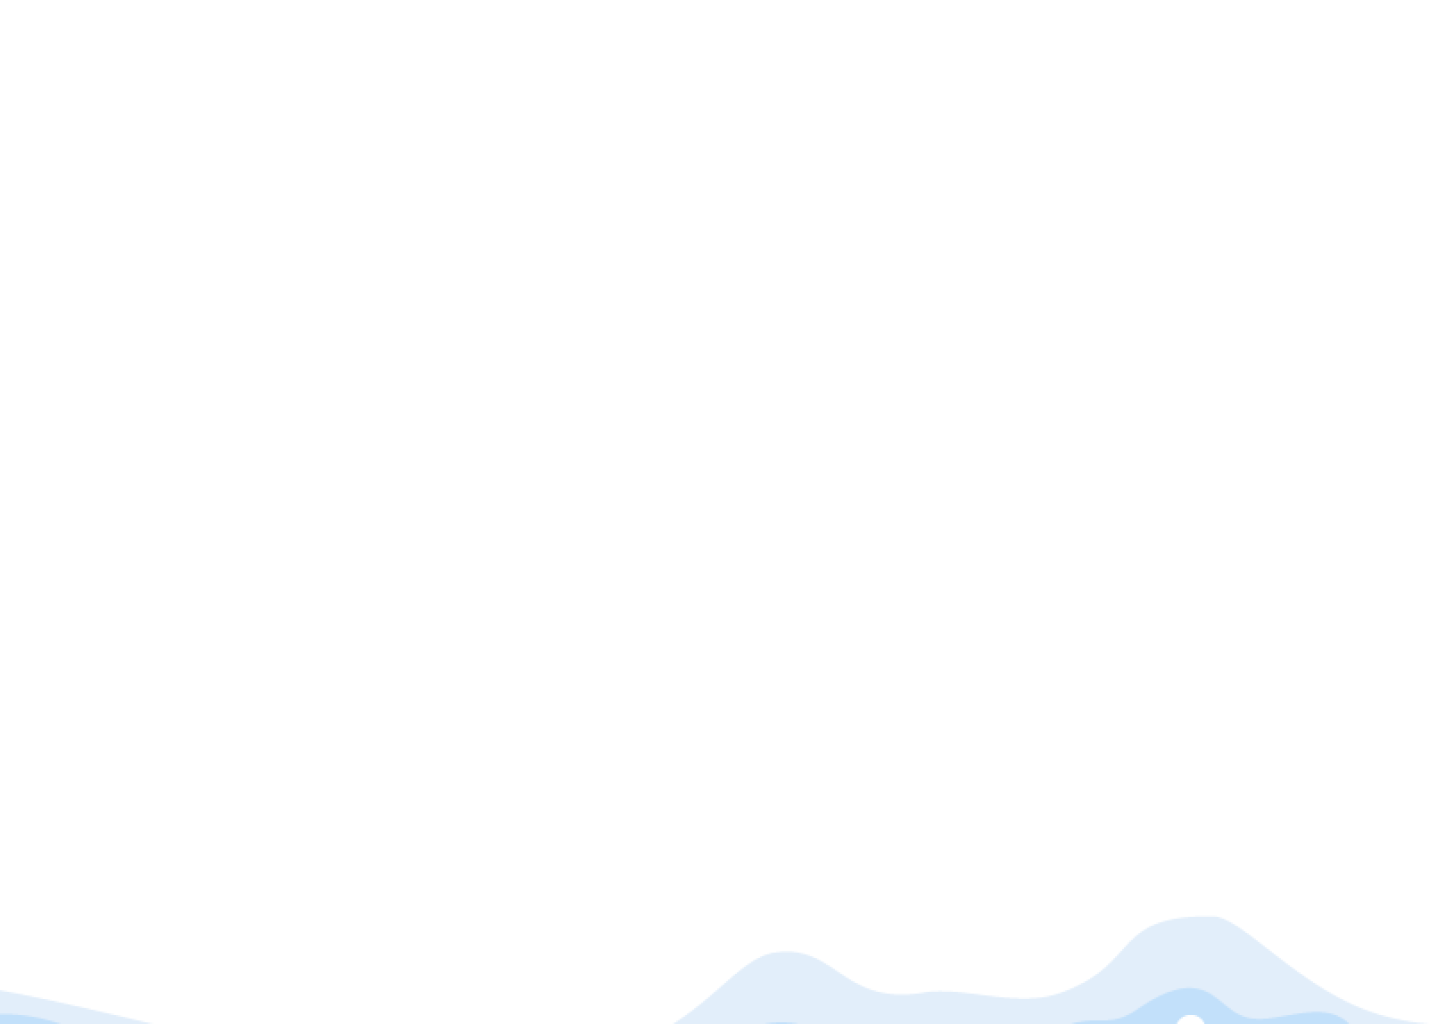
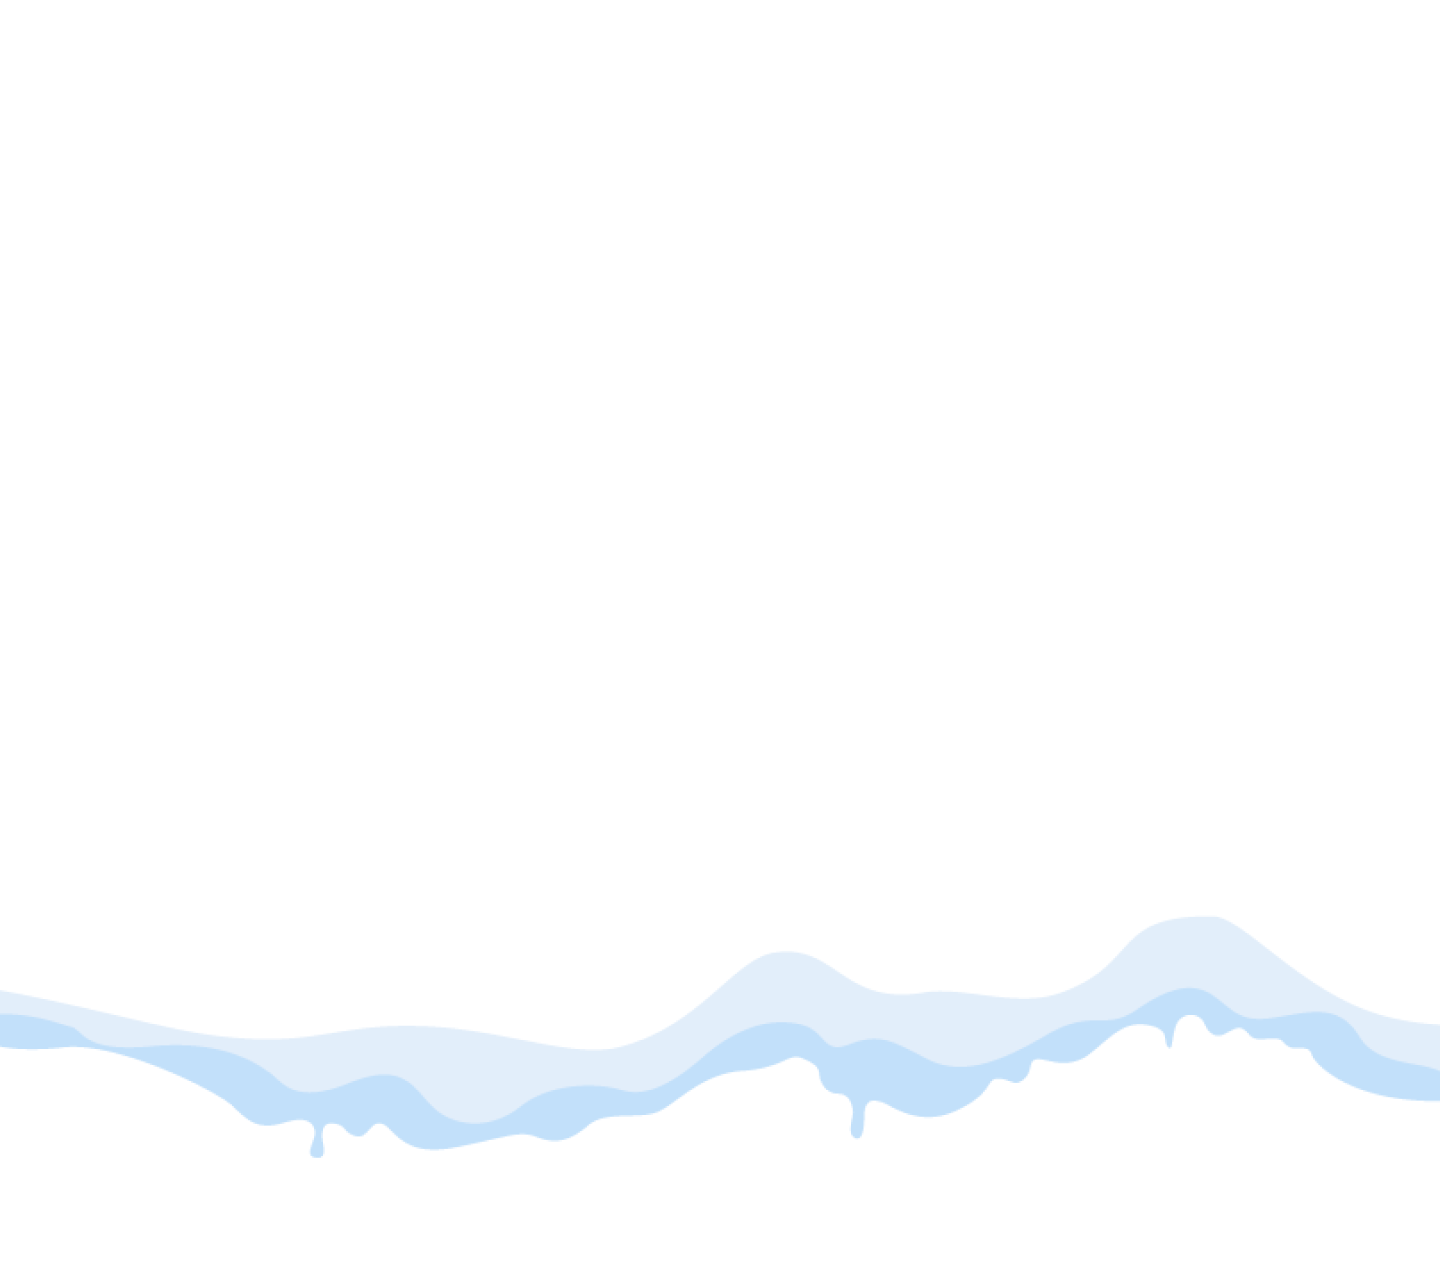
collapse

Changed region(s): [[0.0, 0.7188, 1.0, 0.9062], [0.4688, 0.875, 0.9688, 1.0], [0.0, 0.9688, 0.0938, 1.0]]

diff --git a/chinchilla/src/Page/WhatWho.js b/chinchilla/src/Page/WhatWho.js
@@ -1,29 +1,43 @@
 import React, { Component } from 'react';
-import styled, { keyframes } from 'styled-components';
+import styled from 'styled-components';
 
 const Background = styled.div`
-  height : infinite;
+  height : absolute;
+  min-height : 1200px;
   background-color : #6cd1fd;
+  margin-bottom : 500px;
+  z-index: -1;
 `
-const background1 = styled.img`
-  margin-bottom: -5500px;
-  margin-left: 50px;
+const Group_2 = styled.img`
+  margin-top : 100px;
+  position: absolute;
+  top: 83em;
   width: 100%;
   z-index: 0;
 `
-const background2 = styled.img`
-  bottom: 5500px;
+const Group = styled.img`
+  margin-top : 30px;
+  top: 72em;
+  position: absolute;
   width: 100%;
   z-index: 1;
+`
+const Frame = styled.img`
+  margin-top : 30px;
+  top: 130em;
+  position: absolute;
+  width: 100%;
+  z-index: 2;
 `
 
 class WhatWho extends Component {
   render() {
     return (
-      <div className="App">
+      <div>
           <Background>
-            <background1><img src='.\images\Desktop2\Group_2.png' /></background1>
-            <background2><img src='.\images\Desktop2\Group.png' /></background2>
+            <Group src='.\images\Desktop2\Group.png' />
+            <Group_2 src='.\images\Desktop2\Group_2.png' />
+            <Frame src='.\images\Desktop2\Frame.png' />
           </Background>
       </div>
     );
